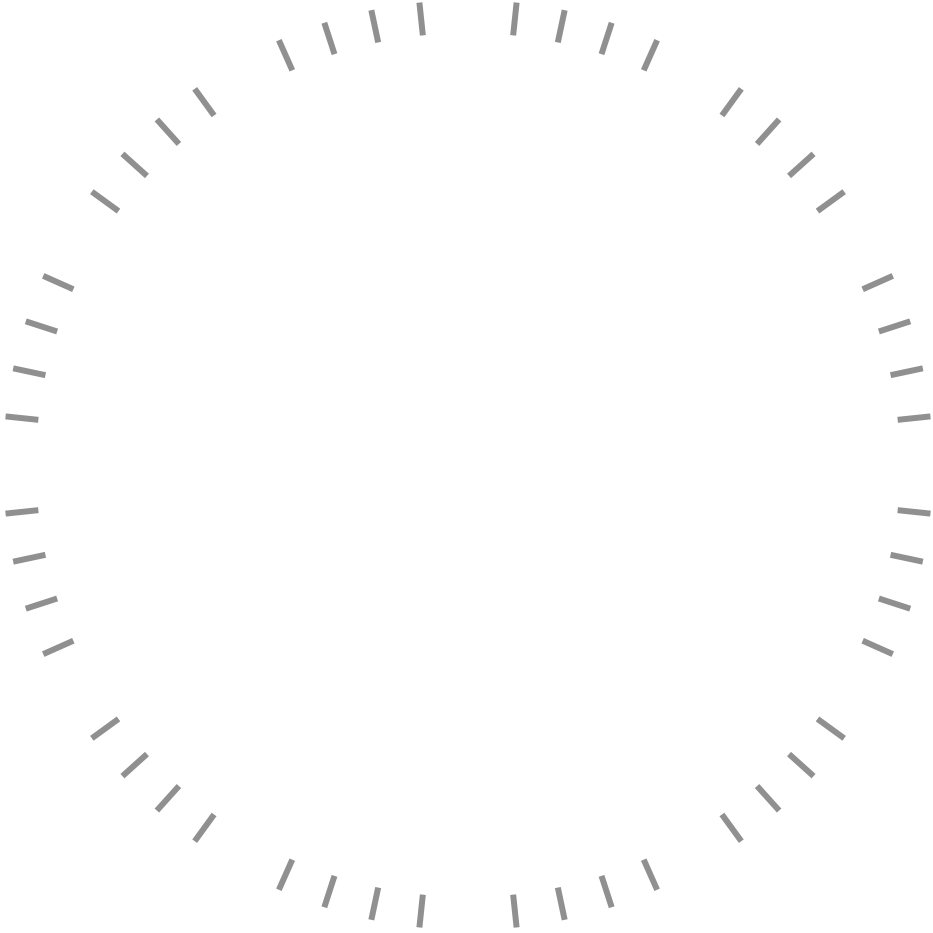
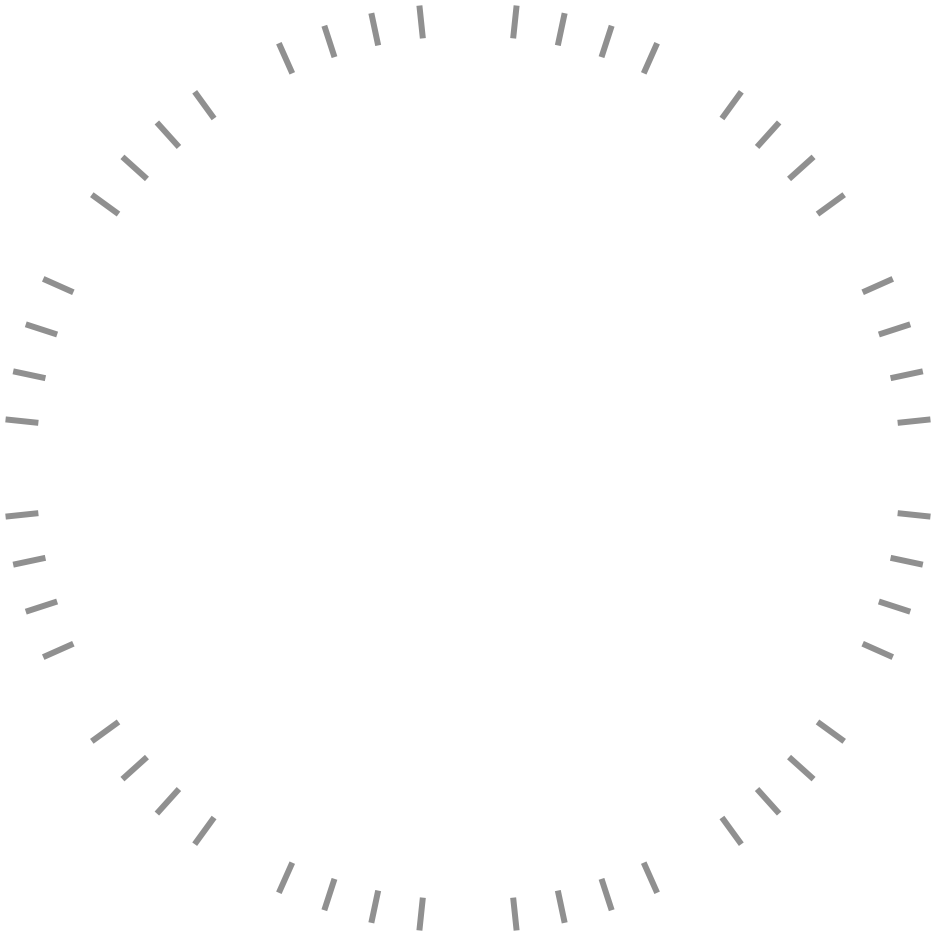
Fixed pixel alignment of most of the watch face images Added a hit test for watch faces Added the missing minute indicator for Chronograph's stopwatch

diff --git a/Watch Faces/Chronograph/LWKChronoFace.m b/Watch Faces/Chronograph/LWKChronoFace.m
@@ -4,7 +4,7 @@
 
 - (id)init {
 	if (self = [super init]) {
-		_UIBackdropView* backgroundView = [[_UIBackdropView alloc] initWithFrame:CGRectMake(0, 0, 312, 312) autosizesToFitSuperview:NO settings:[_UIBackdropViewSettings settingsForStyle:1]];
+		backgroundView = [[_UIBackdropView alloc] initWithFrame:CGRectMake(0, 0, 312, 312) autosizesToFitSuperview:NO settings:[_UIBackdropViewSettings settingsForStyle:1]];
 		[backgroundView.layer setPosition:CGPointMake(156, 195)];
 		[backgroundView.layer setCornerRadius:156.0];
 		[backgroundView setClipsToBounds:YES];
@@ -18,6 +18,7 @@
 		
 		indicatorImage = [[UIImageView alloc] initWithImage:[UIImage imageNamed:@"chronograph" inBundle:self.watchFaceBundle compatibleWithTraitCollection:nil]];
 		[indicatorImage setCenter:CGPointMake(156, 195)];
+		[self.contentView addSubview:indicatorImage];
 		
 		[self.hourHand setImage:[UIImage imageNamed:@"chrono_hour" inBundle:self.watchFaceBundle compatibleWithTraitCollection:nil]];
 		
@@ -31,13 +32,18 @@
 		[self.secondHand.layer setPosition:CGPointMake(156, 213)];
 		[self.indicatorView insertSubview:self.secondHand atIndex:0];
 		
+		chronoStopwatchMinutes = [[UIImageView alloc] initWithImage:[[UIImage imageNamed:@"chrono_indicator" inBundle:self.watchFaceBundle compatibleWithTraitCollection:nil] imageWithRenderingMode:UIImageRenderingModeAlwaysTemplate]];
+		[chronoStopwatchMinutes setTintColor:[UIColor colorWithRed:1.0 green:0.584 blue:0.0 alpha:1.0]];
+		[chronoStopwatchMinutes setFrame:CGRectMake(0, 0, 6, 47)];
+		[chronoStopwatchMinutes.layer setAnchorPoint:CGPointMake(0.5, 88.0 / 94.0)];
+		[chronoStopwatchMinutes.layer setPosition:CGPointMake(156, 99)];
+		[self.indicatorView insertSubview:chronoStopwatchMinutes atIndex:0];
+		
 		chronoStopwatchSeconds = [[UIImageView alloc] initWithImage:[[UIImage imageNamed:@"second" inBundle:[NSBundle bundleForClass:[LWKClockBase class]] compatibleWithTraitCollection:nil] imageWithRenderingMode:UIImageRenderingModeAlwaysTemplate]];
 		[chronoStopwatchSeconds setTintColor:[UIColor colorWithRed:1.0 green:0.584 blue:0.0 alpha:1.0]];
 		[chronoStopwatchSeconds.layer setAnchorPoint:CGPointMake(0.5, 311.0/362.0)];
 		[chronoStopwatchSeconds.layer setPosition:CGPointMake(156, 156)];
 		[self.indicatorView addSubview:chronoStopwatchSeconds];
-		
-		[self.contentView addSubview:indicatorImage];
 		
 		// Preferences
 		
@@ -97,8 +103,6 @@
 		[self.dateLabel sizeToFit];
 		[self.dateLabel setCenter:CGPointMake(224, 156)];
 	}
-	
-	
 }
 
 #pragma mark - Customization

diff --git a/LockWatch/LockScreen/LWScrollView.m b/LockWatch/LockScreen/LWScrollView.m
@@ -220,8 +220,18 @@
 }
 
 - (UIView*)hitTest:(CGPoint)point withEvent:(UIEvent *)event {
-	UIView* view = [super hitTest:point withEvent:event];
+	// Check for view hits in current watch face
+	UIView* view;
+ 
+	if (!isSelecting && !isEditing) {
+		view = [[self currentWatchFace] hitTest:[[[self currentWatchFace] contentView] convertPoint:point fromView:self] withEvent:event];
 	
+		if (view) {
+			return view;
+		}
+	}
+	
+	view = [super hitTest:point withEvent:event];
 	
 	if (view == overlayView && isSelecting) {
 		return contentView;

diff --git a/LockWatchKit/LWKClockBase.m b/LockWatchKit/LWKClockBase.m
@@ -57,6 +57,10 @@
 - (void)didStopUpdatingTime:(BOOL)animated {}
 - (void)triggerUpdate {}
 
+- (UIView*)hitTest:(CGPoint)point withEvent:(UIEvent *)event {
+	return nil;
+}
+
 #pragma mark Customization
 
 - (void)prepareCustomizationMode {

diff --git a/LockWatchKit/LWKClockBase.h b/LockWatchKit/LWKClockBase.h
@@ -37,6 +37,8 @@
 - (void)didStopUpdatingTime:(BOOL)animated;
 - (void)triggerUpdate;
 
+- (UIView*)hitTest:(CGPoint)point withEvent:(UIEvent *)event;
+
 - (NSArray*)faceStyleViews;
 - (void)setFaceStyle:(int)style;
 - (int)faceStyle;

diff --git a/Watch Faces/Chronograph/LWKChronoFace.h b/Watch Faces/Chronograph/LWKChronoFace.h
@@ -1,6 +1,8 @@
 #import <LockWatchKit/LockWatchKit.h>
 
 @interface LWKChronoFace : LWKAnalogClock {
+	_UIBackdropView* backgroundView;
+	
 	int dateLabelDetail;
 	UIImageView* indicatorImage;
 	UIImageView* chronoStopwatchSeconds;
